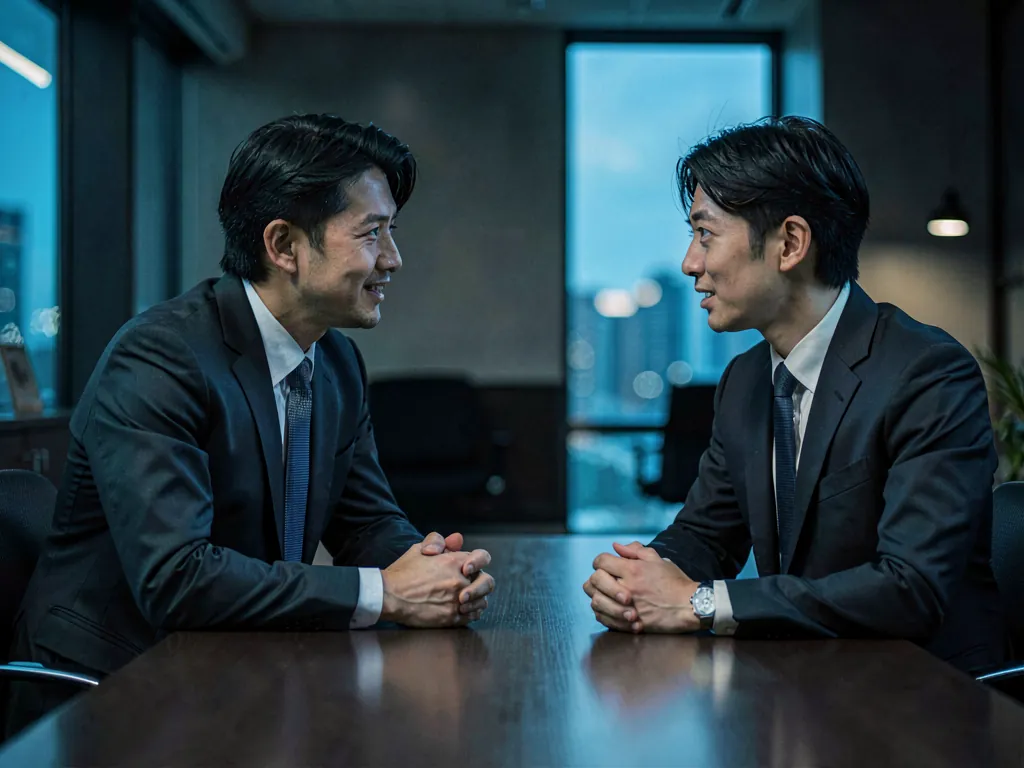
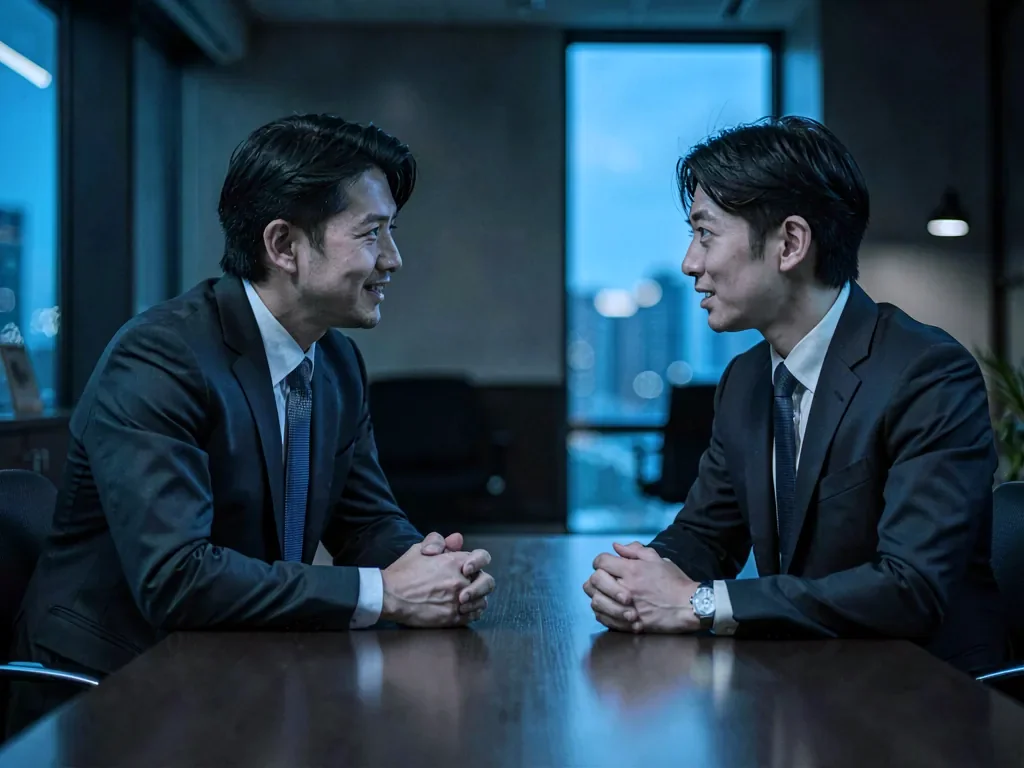
セッション再開前の未コミット分を確定（fit.jsによる全画面比対応ほか）

diff --git a/css/deck.css b/css/deck.css
@@ -13,15 +13,18 @@
   --surface-2: #16202C;   /* 強調カード */
   --ink:       #EAF0F7;
   --ink-dim:   #94A3B4;   /* 実効コントラストを上げる */
-  --accent:    #00D4FF;
-  --acc-04:    rgba(0,212,255,.04);
-  --acc-10:    rgba(0,212,255,.10);
-  --acc-24:    rgba(0,212,255,.24);
-  --acc-60:    rgba(0,212,255,.60);
+  --accent:    #3B82F6;
+  --acc-04:    rgba(59,130,246,.04);
+  --acc-10:    rgba(59,130,246,.10);
+  --acc-24:    rgba(59,130,246,.24);
+  --acc-60:    rgba(59,130,246,.60);
   --line:      rgba(255,255,255,.09);
   --glow:      var(--acc-24);
   --sp-1:8px; --sp-2:16px; --sp-3:24px; --sp-4:32px;
   --sp-5:40px; --sp-6:56px; --sp-7:72px; --sp-8:96px;
+  /* 本文（11〜17px）の行送りトークン。デッキ全体で 1.0〜1.95 の12種が混在していたので、
+     読ませる本文はここに寄せる。brand.css が後から同名トークンを定義した場合はそちらが勝つ。 */
+  --lh-body: 1.8;
 }
 
 /* ---------- 2. アクセントの使いすぎを止める ----------
@@ -40,15 +43,17 @@
 #map .fs2-n{ color:var(--ink-dim); }
 
 /* ---------- 3. 書体：日本語が monospace に落ちるのを防ぐ ----------
-   AD指摘: Roboto Mono に CJK グリフが無く、日本語が第三の書体で描画される。
-   Windows では総称 monospace が明朝に解決される構成があり、明朝体禁止に抵触しうる。 */
+   AD指摘: CJK グリフを持たない書体を先頭に置くと、日本語が第三の書体で描画される。
+   Windows では総称 monospace が明朝に解決される構成があり、明朝体禁止に抵触しうる。
+   書体名は直書きせず brand.css の --font-en / --font-jp に一本化する
+   （読み込み済みの Space Grotesk / Noto Sans JP 以外に散らないようにするため）。 */
 .num, .sec-label, .price-unit, .cmp-k, .stat-k, .bignum-k,
 .tl-meter-k, .hero-eyebrow, .formula-list{
-  font-family:'Space Grotesk','Noto Sans JP',sans-serif !important;
+  font-family:var(--font-en,'Space Grotesk','Noto Sans JP',sans-serif) !important;
 }
 /* 日本語しか入らないラベルは等幅から外す */
 .stat-k, .bignum-k, .tl-meter-k, .cmp-k, .hero-eyebrow, .price-unit, .formula-list{
-  font-family:'Noto Sans JP',sans-serif !important;
+  font-family:var(--font-jp,'Noto Sans JP',sans-serif) !important;
 }
 
 /* ---------- 4. 和文の詰めすぎを直す ---------- */
@@ -73,7 +78,7 @@ body{
   overflow:hidden;
   background:var(--bg);
   color:var(--ink);
-  font-family:'Noto Sans JP',sans-serif;
+  font-family:var(--font-jp,'Noto Sans JP',sans-serif);
   -webkit-font-smoothing:antialiased;
 }
 
@@ -276,7 +281,7 @@ body{
   z-index:3; text-align:center; width:88px;
 }
 .orbit-node-n{
-  font-family:'Space Grotesk',monospace; font-size:.66rem;
+  font-family:var(--font-en,'Space Grotesk','Noto Sans JP',sans-serif); font-size:.66rem;
   width:26px; height:26px; border-radius:50%;
   display:flex; align-items:center; justify-content:center;
   background:var(--surface-2); border:1px solid var(--acc-24); color:var(--accent);
@@ -393,7 +398,13 @@ body{
 .faq-list summary::-webkit-details-marker{ display:none; }
 .faq-list summary::before{ content:"＋"; color:var(--ink-dim); margin-right:10px; font-size:.8rem; }
 .faq-list details[open] summary::before{ content:"−"; color:var(--accent); }
-.faq-list p{ font-size:.85rem; color:var(--ink-dim); line-height:1.85; margin:var(--sp-2) 0 var(--sp-1) 26px; }
+/* FAQ本文。以前は `.faq-list p`（詳細度 0,1,1）で書いていたため、style.css の
+   `.faq-list details p`（0,1,2）に負けて line-height:1.95 のままだった（デッキ最大の行送り）。
+   セレクタを合わせて詳細度で並び、後読みの deck.css が勝つようにして本文標準へ寄せる。
+   margin / max-width は style.css の値をそのまま使うのでここでは宣言しない。 */
+.faq-list details p{ font-size:.9rem; color:var(--ink-dim); line-height:var(--lh-body,1.8); }
+/* 上のルールが style.css の 768px 以下の縮小（.84rem）も上書きしてしまうので、同じ幅で戻す */
+@media (max-width:768px){ .faq-list details p{ font-size:.84rem; } }
 .sec-cta::before{
   content:""; position:absolute; inset:0; z-index:0;
   background-image:var(--chdiv-img); background-size:cover; background-position:center; opacity:.35;
@@ -409,7 +420,7 @@ body{
 .cta-title{ font-size:clamp(1.5rem,3vw,2.4rem); font-weight:900; line-height:1.5; }
 .cta-btns{ display:flex; gap:var(--sp-2); justify-content:center; flex-wrap:wrap; margin:var(--sp-5) 0 var(--sp-3); }
 .btn{ display:inline-block; padding:16px 30px; border-radius:3px; font-size:.9rem; font-weight:700; text-decoration:none; transition:opacity .3s ease; }
-.btn-main{ background:var(--accent); color:#04222B; }
+.btn-main{ background:var(--accent); color:#fff; }
 .btn-sub{ border:1px solid var(--line); color:var(--ink); }
 .btn:hover{ opacity:.82; }
 .foot-co{ font-size:.78rem; color:var(--ink-dim); }
@@ -430,6 +441,8 @@ body{
 .deck-btn{
   width:32px; height:32px; border-radius:50%;
   background:transparent; border:1px solid var(--line); color:var(--ink);
+  /* button は UA スタイルの Arial を持つため、指定しないと ‹ › だけ第三の書体で描かれる */
+  font-family:var(--font-jp,'Noto Sans JP',sans-serif);
   font-size:1.1rem; line-height:1; cursor:pointer;
   display:flex; align-items:center; justify-content:center;
   transition:border-color .3s ease, color .3s ease;
@@ -460,7 +473,7 @@ body{
   right:calc(22px + env(safe-area-inset-right, 0px));
   bottom:calc(26px + env(safe-area-inset-bottom, 0px));
   z-index:60;
-  font-family:'Space Grotesk',monospace; font-size:.78rem; color:var(--ink-dim);
+  font-family:var(--font-en,'Space Grotesk','Noto Sans JP',sans-serif); font-size:.78rem; color:var(--ink-dim);
 }
 .deck-counter i{ font-style:normal; opacity:.4; margin:0 4px; }
 .deck-counter #deck-cur{ color:var(--accent); }
@@ -512,13 +525,45 @@ body:not(.is-preview) .wip, body:not(.is-preview) .preview-badge{ display:none; 
   .orbit-list li{ grid-template-columns:28px 1fr; }
   .orbit-list .step{ display:none; }
   .roi-chart{ height:210px; gap:var(--sp-3); }
+  /* ドットは非表示のまま。34枚 × 11px ＝ 374px に対し .deck-dots の
+     max-width は 52vw（375px幅で195px）＋ overflow:hidden なので、
+     18枚目以降は現在地のドットが枠外に出て見えない（JS側に追従スクロールが無い）。
+     出すと現在地を誤認させるだけなので、位置の手がかりは進捗バーに寄せる。 */
   .deck-dots{ display:none; }
-  .deck-hint{ display:none; }
-  /* ページ番号がナビゲーションピルに重なるのを回避（ピルの上へ退避） */
-  .deck-counter{
-    bottom:calc(72px + env(safe-area-inset-bottom, 0px));
-    right:calc(16px + env(safe-area-inset-right, 0px));
+
+  /* [操作ヒント] display:none だったため、モバイルの操作の手がかりが ‹ › の2ボタン
+     だけになっていた（#deck-hint は computed display:none／rect 0×0 で実測不可視）。
+     消さずに残し、deck.js が2枚目以降で付ける .is-gone のフェード（opacity .6s）に任せる。
+     既定文言（19文字・375px幅で実測212px）を既定位置の左下22pxに出すと
+     ナビのピル（左端133px）に食い込むので、モバイルではピルの真上に
+     「← スワイプ →」だけを中央置きする。#deck-hint は aria-hidden="true" の
+     装飾要素なので、擬似要素での差し替えで読み上げに影響しない。
+     375×812 実測：ピル上端は下から70px、ヒントは下から76〜99px。
+     ピルとの重なり0px²、ページ番号との重なり0px²、本文との重なりも
+     1〜5枚目すべて0px²（最小クリアランス64px＝4枚目 #num-cost）。 */
+  .deck-hint{
+    left:50%;
+    right:auto;
+    bottom:calc(76px + env(safe-area-inset-bottom, 0px));
+    transform:translateX(-50%);
+    white-space:nowrap;
+    text-align:center;
+    font-size:0;            /* 既定の長い文言を畳む（ピルに重ねないため） */
+    pointer-events:none;    /* 装飾なのでタップを吸わない */
   }
+  .deck-hint::before{
+    content:"← スワイプ →";
+    font-size:.74rem;       /* rem なので親の font-size:0 の影響を受けない */
+    letter-spacing:.08em;
+  }
+
+  /* 進捗バーが2pxで最上部に埋没していた。ドットが無いモバイルでは
+     ここだけが「何枚目か」を示すので4pxにする（PCは2pxのまま）。 */
+  .deck-progress{ height:4px; }
+
+  /* ページ番号は既定位置（bottom:26px / right:22px）のまま。
+     モバイルではドットが非表示でピル幅が110pxに縮むため重ならない（実測66.6px空き）。
+     ピルの上（bottom:72px）へ退避させると、逆にスライド本文へ最大672px²重なる。 */
 }
 
 /* ---------- 動きを減らす設定 ---------- */
@@ -550,9 +595,9 @@ body:not(.is-preview) .wip, body:not(.is-preview) .preview-badge{ display:none; 
   pointer-events:none; opacity:0;
   background:linear-gradient(90deg,
     transparent 0%,
-    rgba(0,212,255,.05) 34%,
-    rgba(0,212,255,.30) 50%,
-    rgba(0,212,255,.05) 66%,
+    rgba(59,130,246,.05) 34%,
+    rgba(59,130,246,.30) 50%,
+    rgba(59,130,246,.05) 66%,
     transparent 100%);
   mix-blend-mode:screen;
 }
@@ -657,7 +702,7 @@ body:not(.is-preview) .wip, body:not(.is-preview) .preview-badge{ display:none; 
   .vision-grid .tl-block[data-kind]{ opacity:0 !important; }
   .vision-grid .tl-block.is-final{ opacity:1 !important; }
 }
-.src{ display:block; font-size:.66rem; color:var(--ink-dim); opacity:.75; line-height:1.5; margin-top:2px; }
+.src{ display:block; font-size:11px; color:var(--ink-dim); opacity:.75; line-height:1.4; margin-top:2px; }
 .fm-row .src{ margin:0; }
 .formula-list li{ margin-bottom:10px; }
 
@@ -798,7 +843,7 @@ body:not(.is-preview) .wip, body:not(.is-preview) .preview-badge{ display:none; 
   overflow:hidden;
   display:flex; align-items:center; justify-content:center;
 }
-.fn-slide.is-key .fn-fig{ border-color:var(--acc-24); box-shadow:0 0 60px rgba(0,212,255,.06); }
+.fn-slide.is-key .fn-fig{ border-color:var(--acc-24); box-shadow:0 0 60px rgba(59,130,246,.06); }
 .fn-slide .fn-fig svg{ width:100%; height:100%; display:block; }
 .fn-badge{ display:inline-block; font-size:.7rem; letter-spacing:.14em; color:var(--ink-dim); margin-bottom:var(--sp-3); }
 .fn-slide .sec-title{ font-size:clamp(1.6rem,3vw,2.6rem) !important; margin-bottom:var(--sp-3) !important; }
@@ -859,8 +904,11 @@ body:not(.is-preview) .wip, body:not(.is-preview) .preview-badge{ display:none; 
 /* ---------- 19. 3プラン ＋ プラン別ROI ---------- */
 .plans{ display:grid; grid-template-columns:repeat(3,1fr); gap:var(--sp-2); margin:var(--sp-4) 0 var(--sp-3); }
 .plan{ position:relative; padding:var(--sp-4) var(--sp-3); background:var(--surface-1); border:1px solid var(--line); border-radius:6px; }
-.plan.is-key{ background:var(--surface-2); border-color:var(--acc-60); box-shadow:0 0 40px rgba(0,212,255,.07); }
-.plan-badge{ position:absolute; top:-9px; left:var(--sp-3); font-size:.65rem; letter-spacing:.1em; background:var(--accent); color:#04222B; padding:3px 10px; border-radius:100px; font-weight:700; }
+.plan.is-key{ background:var(--surface-2); border-color:var(--acc-60); box-shadow:0 0 40px rgba(59,130,246,.07); }
+/* [E-5と同処方] 文字色はアクセントがシアンだった頃の暗色が残っていて、ブランドブルーの上では黒く沈む。
+   .pm-badge と同じく 締め色 #2563EB ＋ 白文字＝5.17:1 に揃える。
+   color だけ白にすると #3B82F6 上で 3.68:1 になり 10.4px/700 では不足するため、背景とセットで変える。 */
+.plan-badge{ position:absolute; top:-9px; left:var(--sp-3); font-size:.65rem; letter-spacing:.1em; background:var(--accent-2,#2563EB); color:#fff; padding:3px 10px; border-radius:100px; font-weight:700; }
 .plan-name{ display:block; font-size:.8rem; color:var(--ink-dim); letter-spacing:.08em; margin-bottom:8px; }
 .plan-price{ font-size:clamp(2.2rem,4vw,3.2rem); font-weight:700; color:var(--ink); margin:0 0 var(--sp-2); line-height:1; }
 .plan.is-key .plan-price{ color:var(--accent); }
@@ -897,7 +945,7 @@ body:not(.is-preview) .wip, body:not(.is-preview) .preview-badge{ display:none; 
   border-radius:8px; overflow:hidden;
   display:flex; align-items:center; justify-content:center;
 }
-.fn-slide.is-key .fn-video{ border-color:var(--acc-24); box-shadow:0 0 60px rgba(0,212,255,.07); }
+.fn-slide.is-key .fn-video{ border-color:var(--acc-24); box-shadow:0 0 60px rgba(59,130,246,.07); }
 .fn-video video{ width:100%; height:100%; object-fit:cover; display:block; }
 
 /* ---------- 22. 業務別の時間内訳（カレンダーをやめて何に何時間かを見せる） ---------- */
@@ -1046,7 +1094,7 @@ body:not(.is-preview) .wip, body:not(.is-preview) .preview-badge{ display:none; 
 }
 .sc-row:last-child{ border-bottom:0; }
 .sc-head{ background:var(--surface-1); font-size:.7rem; color:var(--ink-dim); }
-.sc-head i{ display:block; font-style:normal; font-size:.62rem; opacity:.7; }
+.sc-head i{ display:block; font-style:normal; font-size:.72rem; opacity:.7; }
 .sc-row.is-key{ background:var(--acc-04); }
 .sc-n{ color:var(--ink-dim); }
 /* [アクセント整理] 自社の金額まで青にすると、この表の主旨である「差額」が色で埋もれる。
@@ -1090,7 +1138,7 @@ body:not(.is-preview) .wip, body:not(.is-preview) .preview-badge{ display:none; 
 .sb-seg.is-chore{ background:linear-gradient(180deg,var(--accent),var(--acc-60)); }
 .sb-seg.is-core{ background:rgba(255,255,255,.13); border-left:1px solid rgba(255,255,255,.3); border-right:1px solid rgba(255,255,255,.3); }
 .sb-seg i{ font-style:normal; font-size:.66rem; line-height:1.3; text-align:center; color:rgba(5,7,10,.78); font-weight:700; }
-.sb-seg b{ font-family:'Space Grotesk',monospace; font-size:.9rem; color:#04222B; }
+.sb-seg b{ font-family:var(--font-en,'Space Grotesk','Noto Sans JP',sans-serif); font-size:.9rem; color:#fff; }
 .sb-seg.is-core i{ color:var(--ink); }
 .sb-seg.is-core b{ color:var(--ink); }
 /* [E-3] 「107時間の中身」なのに5〜7番目（評価入力/求人票/集計）のラベルが消えていた。
@@ -1137,17 +1185,20 @@ body:not(.is-preview) .wip, body:not(.is-preview) .preview-badge{ display:none; 
 .pm th.is-key, .pm td.is-key{ background:var(--acc-04); }
 .pm thead th.is-key{ background:var(--surface-2); border-radius:6px 6px 0 0; }
 .pm-fn{ text-align:left !important; color:var(--ink-dim); font-weight:400; white-space:nowrap; }
-.pm-fn i{ display:block; font-style:normal; font-size:.68rem; opacity:.7; }
+.pm-fn i{ display:block; font-style:normal; font-size:.72rem; opacity:.7; }
 .pm-name{ display:block; font-size:.72rem; color:var(--ink-dim); letter-spacing:.06em; }
 .pm-price{ display:block; font-size:1.9rem; font-weight:700; line-height:1.2; margin:2px 0; }
 .pm thead .is-key .pm-price{ color:var(--accent); }
-.pm-price small{ font-size:.32em; color:var(--ink-dim); margin-left:3px; font-weight:400; }
-.pm-target{ display:block; font-size:.68rem; color:var(--ink-dim); }
+/* [可読性] 金額まわりの補助文字がデッキ全体の下限(11px)を割っていた。
+   「万円／月」は .32em×30.4px=9.73px、「年1〜2名」は .68rem=10.88px。
+   同じ表の .pm-name が .72rem=11.52px なので、それに揃えて 11px 以上にする。 */
+.pm-price small{ font-size:.38em; color:var(--ink-dim); margin-left:3px; font-weight:400; }
+.pm-target{ display:block; font-size:.72rem; color:var(--ink-dim); }
 /* [E-5] バッジの文字色 #04222B はアクセントがシアン #00D4FF だった頃の残骸で、
    ブランドブルー #3B82F6 の上では 4.50:1（9.92px/700 で下限ぎりぎり）まで落ちて黒く沈む。
    締め色 #2563EB ＋ 白文字にして 5.17:1 に上げる（color だけ白にすると
    #3B82F6 上で 3.68:1 になり不足するため、背景と必ずセットで変える）。 */
-.pm-badge{ position:absolute; top:-10px; left:50%; transform:translateX(-50%); font-size:.62rem; background:var(--accent-2); color:#fff; padding:2px 10px; border-radius:100px; font-weight:700; }
+.pm-badge{ position:absolute; top:-10px; left:50%; transform:translateX(-50%); font-size:.72rem; background:var(--accent-2); color:#fff; padding:2px 10px; border-radius:100px; font-weight:700; }
 /* [アクセント整理] ●が14個も青いと、この節で一番言いたい「推奨プラン＝10万円／月」が
    埋もれる。●と—は字形で区別できる（.pm .no は薄いグレーの—）ので、●は色を持たせない。
    青は .pm thead .is-key .pm-price の1つだけに残す。font-size:1rem は字形の維持に必要。 */
@@ -1160,9 +1211,9 @@ body:not(.is-preview) .wip, body:not(.is-preview) .preview-badge{ display:none; 
 
 /* ---------- 31. 事例：なぜそうなったか ---------- */
 .case-why{ margin:var(--sp-3) 0 0; text-align:left; }
-.case-why dt{ font-size:.66rem; letter-spacing:.08em; color:var(--ink-dim); margin-top:10px; }
+.case-why dt{ font-size:.72rem; letter-spacing:.08em; color:var(--ink-dim); margin-top:10px; }
 .case-why dt:first-child{ margin-top:0; }
-.case-why dd{ margin:3px 0 0; font-size:.78rem; line-height:1.7; color:var(--ink-dim); }
+.case-why dd{ margin:3px 0 0; font-size:.78rem; line-height:var(--lh-body,1.8); color:var(--ink-dim); }
 .case-why dd b{ color:var(--ink); font-weight:700; }
 .case h3 i{ display:block; font-style:normal; font-size:.68rem; opacity:.7; margin-top:3px; }
 .case-hero-k{ font-size:.72rem; color:var(--ink-dim); margin:2px 0 var(--sp-2); }
@@ -1214,7 +1265,7 @@ body:not(.is-preview) .wip, body:not(.is-preview) .preview-badge{ display:none; 
 .fit-h{ font-size:.78rem !important; color:var(--ink-dim) !important; letter-spacing:.06em; margin:0 0 var(--sp-2) !important; font-weight:500 !important; }
 .fit-col.is-key .fit-h{ color:var(--accent) !important; }
 .fit-list{ list-style:none; padding:0; margin:0; }
-.fit-list li{ font-size:.85rem; line-height:1.65; color:var(--ink-dim); padding:7px 0 7px 16px; position:relative; border-bottom:1px solid rgba(255,255,255,.04); }
+.fit-list li{ font-size:.85rem; line-height:var(--lh-body,1.8); color:var(--ink-dim); padding:7px 0 7px 16px; position:relative; border-bottom:1px solid rgba(255,255,255,.04); }
 .fit-list li:last-child{ border-bottom:0; }
 .fit-list li::before{ content:""; position:absolute; left:0; top:15px; width:5px; height:5px; border-radius:50%; background:var(--acc-60); }
 .fit-list b{ color:var(--ink); font-weight:700; }
@@ -1345,3 +1396,21 @@ body:not(.is-preview) .wip, body:not(.is-preview) .preview-badge{ display:none; 
   /* 2列になると3枚目は行頭なので、そこだけコネクタを出さない */
   #flow .flow-steps li:nth-child(3)::before{ content:none; }
 }
+
+/* [修正班] #roi / #beforeafter の根拠注記を1行に収める。
+   注記が2行に折り返すと版面が縦に伸び、fit.js の縮小率が下がって
+   主要数値（年間340時間・差引＋119万円 など）まで小さくなっていた。
+   brand.css の .note{line-height:1.8 !important} を上書きするので !important が要る。 */
+#roi .note, #beforeafter .note{
+  font-size:11px !important;
+  line-height:1.4 !important;
+}
+
+/* [修正班 #num-cost] 単位（万円／時間）の下限を 12px にする。
+   brand.css の規格統一 .ch-num b small{font-size:.30em !important} は
+   親 .ch-num b の clamp(2.2rem,4.2vw,3.4rem) に比例するため、
+   ビューポートが狭いと 2.2rem×.30＝10.56px（旧 .34em 時代は 9.8px）まで落ちて
+   「103」と「万円」の関係が読み取れなくなっていた。
+   max() で下限だけ 12px に固定する（PC は 16.32px のまま比率.30 を維持）。
+   brand.css は deck.css より後に読まれるので ID で特異度を上げて上書きする。 */
+#num-cost .ch-num b small{ font-size:max(12px, .30em) !important; }

diff --git a/index.html b/index.html
@@ -270,6 +270,7 @@
   <div class="slide-in wrap">
     <p class="sec-label reveal">BEFORE / AFTER</p>
     <h2 class="sec-title reveal">107時間が、<span class="hl">20時間</span>になります。</h2>
+    <p class="lead reveal">年3.9名を採用される企業様なら、<span class="hl">年間340時間</span>が戻ります。</p>
     <div class="ba2">
       <div class="ba2-col reveal">
         <span class="ba2-l">導入前</span>
@@ -293,8 +294,7 @@
         <p class="ba2-total num is-key">20<small>時間 / 1名あたり</small></p>
       </div>
     </div>
-    <p class="lead reveal">年3.9名を採用される企業様なら、<span class="hl">年間340時間</span>が戻ります。</p>
-    <p class="note reveal">※ 人が行う必然性のない87時間を、7機能がすべて引き取る前提の当社試算です（87時間 × 年3.9名 ≒ 340時間）。</p>
+    <p class="note reveal">※ 人が行う必然性のない87時間を7機能がすべて引き取る前提の当社試算（87時間 × 年3.9名 ≒ 340時間）。</p>
   </div>
 </section>
 
@@ -564,7 +564,7 @@
       </div>
     </div>
     <p class="lead reveal">採用の量が増えるほど、削減できる時間と紹介手数料も増えます。<br><span class="hl">どの規模でも、費用対効果は成立します。</span></p>
-    <p class="note reveal">※ 人材紹介手数料 約103万円＝厚生労働省「令和6年度 職業紹介事業報告書の集計結果」常用就職1件あたり。人件費＝1名あたりAIが引き取る工数87時間 × 時給換算3,000円（当社試算）。</p>
+    <p class="note reveal">※ 人材紹介手数料 約103万円＝厚生労働省「令和6年度 職業紹介事業報告書の集計結果」常用就職1件あたり。人件費＝AIが引き取る1名あたり87時間 × 時給換算3,000円（当社試算）。</p>
   </div>
 </section>
 

diff --git a/css/brand.css b/css/brand.css
@@ -83,8 +83,19 @@ h1,h2,h3,.sec-title,.q-big,.chdiv-t,.hero-title,.vision-title,.product-name,.cta
   letter-spacing:.01em;
 }
 .sec-label{ letter-spacing:.18em !important; font-weight:500 !important; }
+/* 上の .18em は「COST PER HIRE」のような英大文字組み用のトラッキング。
+   機能スライド（#fn-01〜#fn-07）の .sec-label だけは中身が和文
+   （「母集団形成」「面接調整」等）で、全角字面に .18em を入れると
+   12px の字に 2.16px ずつ隙間が空き、単語としてまとまらなくなる。
+   和文ラベルはここでトラッキングを戻す。 */
+.fn-slide .sec-label{ letter-spacing:.04em !important; }
 
-.hero-title{ line-height:1.06 !important; font-size:clamp(2.6rem,6.6vw,5.6rem) !important; }
+/* 表紙タイトルの行送り。本家（欧文中心）から抽出した 1.06 をそのまま和文900に
+   当てると、84.48px 時の行送りが 89.55px となり、1行目の実インク下端と2行目の
+   実インク上端の空きが 11.06px（0.13em）しか残らない。濁点・半濁点や「ご」の
+   ような上に点を持つ字が上行の字面に触れて見えるため、和文ディスプレイの標準域
+   （0.2em 台）に入る 1.16 にする。詰め感を残す場合でも 1.12 が下限。 */
+.hero-title{ line-height:1.16 !important; font-size:clamp(2.6rem,6.6vw,5.6rem) !important; }
 .lead{ line-height:1.9 !important; font-weight:500; }
 .note{ line-height:1.8 !important; }
 /* 同格の大見出し（.sec-title / .tl-title / .cta-title）は行送りを揃える。

diff --git a/css/style.css b/css/style.css
@@ -30,7 +30,7 @@ body {
   overflow-x: hidden;
   background: var(--bg);
   color: var(--ink);
-  font-family: 'Noto Sans JP', sans-serif;
+  font-family: var(--font-jp, 'Noto Sans JP', sans-serif);
   font-size: 16px;
   font-weight: 400;
   line-height: 1.85;
@@ -576,7 +576,7 @@ ul {
   display: block;
   margin-bottom: 4px;
   color: var(--ink-dim);
-  font-family: 'Space Grotesk', monospace;
+  font-family: var(--font-en, 'Space Grotesk', 'Noto Sans JP', sans-serif);
   font-size: .7rem;
   font-weight: 700;
   letter-spacing: .1em;
@@ -1120,7 +1120,7 @@ ul {
 
 .logos-track span {
   color: rgba(232, 238, 245, .56);
-  font-family: 'Space Grotesk', monospace;
+  font-family: var(--font-en, 'Space Grotesk', 'Noto Sans JP', sans-serif);
   font-size: .82rem;
   font-weight: 500;
   letter-spacing: .04em;
